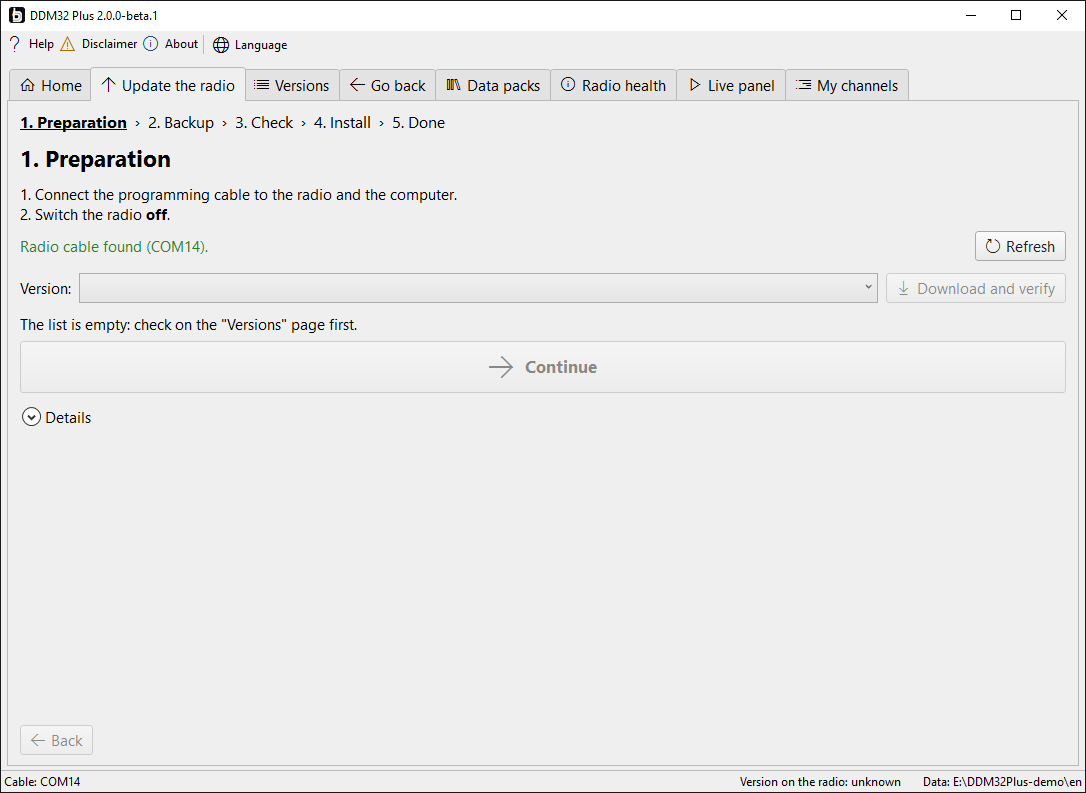
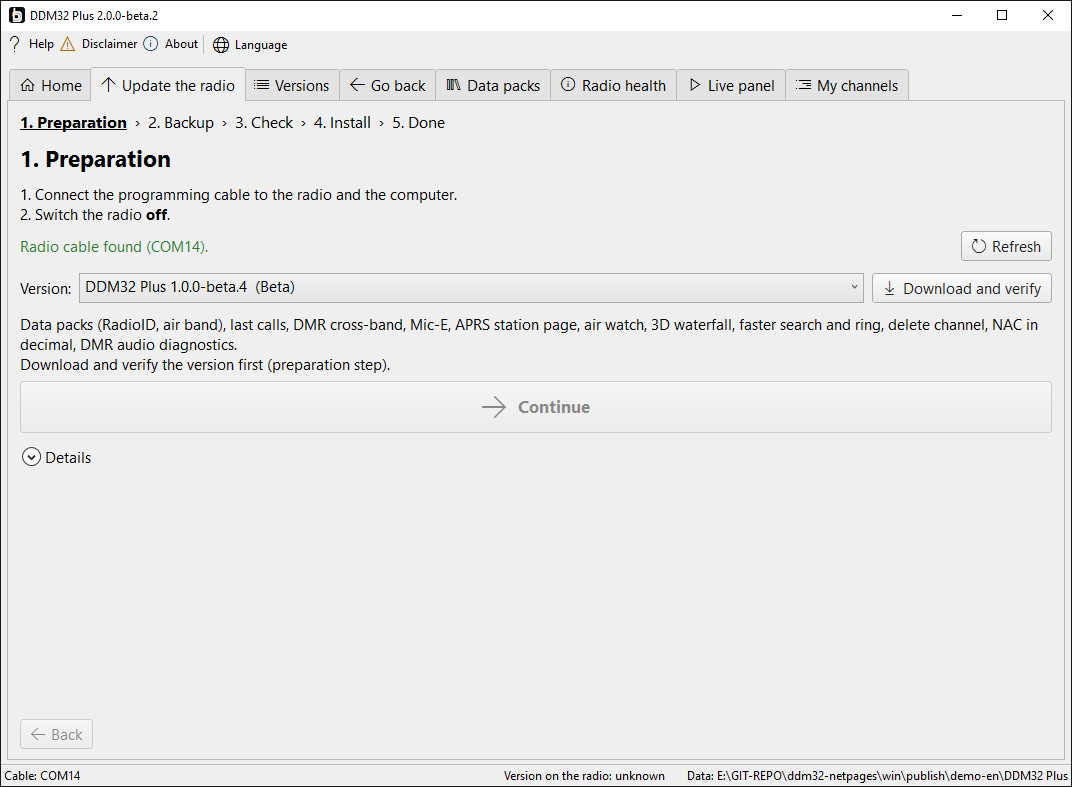
Windows program 2.0.0-beta.2: docs and screenshots of the release build
README (health, live panel, channels; the debug-link guard; one radio step at a
time), kullanim.md (sections 6-8), porting-plan.md (what the Rust port follows).
Every screenshot retaken from the release build on a made-up data folder; new
live and channels shots.

diff --git a/win/README.md b/win/README.md
@@ -3,8 +3,8 @@
 The Python-free Windows programmer for DDM32 Plus, replacing the PyQt5 program in `pc/` step by step. Same pages,
 same wizard (Hazırlık, Yedek, Kontrol, Yükle, Bitti), Turkish and English.
 
-**Version 2.0.0-beta.1: the programmer for installs (owner's decision 2026-11-21).** It replaces the Python program
-in `pc/` and is published with the firmware from v1.0.0-beta.4: download `DDM32Plus-Setup-2.0.0-beta.1.exe` from the
+**Version 2.0.0-beta.2: the programmer for installs (owner's decision 2026-11-21), every page done.** It replaces the Python program
+in `pc/` and is published with the firmware from v1.0.0-beta.4: download `DDM32Plus-Setup-2.0.0-beta.2.exe` from the
 release, run it, done (see [Install](#install) and the Turkish user guide [docs/kullanim.md](docs/kullanim.md)).
 
 The backup, install, quick update, install without backup, first install from stock and restore tools of
@@ -13,8 +13,10 @@ The backup, install, quick update, install without backup, first install from st
 owner's radio and a real backup byte-identical to the Python tool's. **Radio access is on in the release build:** each
 radio step starts only from its own button, after its own confirmation; every guard of the Python tools stays (a
 verified two-pass backup before a write, the plan of changed sectors, only application sectors, boot area, codec
-slot and data chip never written by an install, full readback, no retry of a failed write). New in this version:
-**data packs** (RadioID and air band, built on the user's PC; see [Data packs](#data-packs)).
+slot and data chip never written by an install, full readback, no retry of a failed write). Data packs came in
+2.0.0-beta.1 (RadioID and air band, built on the user's PC; see [Data packs](#data-packs)). New in 2.0.0-beta.2: the
+last three pages, **Telsizin durumu** (radio health), **Canlı panel** (live panel) and **Kanallarım** (my channels);
+no page says "coming in a later version" any more (see [Health, live panel, channels](#health-live-panel-channels)).
 
 | Language dialog | Main window (Türkçe) | Main window (English) |
 |---|---|---|
@@ -29,17 +31,20 @@ slot and data chip never written by an install, full readback, no retry of a fai
 | 5 Bitti / Done | ![](docs/screenshots/wizard-5-done-tr.png) | ![](docs/screenshots/wizard-5-done-en.png) |
 | Geri dön / Go back | ![](docs/screenshots/restore-tr.png) | ![](docs/screenshots/restore-en.png) |
 | Telsizin durumu / Radio health | ![](docs/screenshots/health-tr.png) | ![](docs/screenshots/health-en.png) |
+| Canlı panel / Live panel | ![](docs/screenshots/live-tr.png) | ![](docs/screenshots/live-en.png) |
+| Kanallarım / My channels | ![](docs/screenshots/channels-tr.png) | ![](docs/screenshots/channels-en.png) |
 | Veri paketleri / Data packs | ![](docs/screenshots/datapacks-tr.png) | ![](docs/screenshots/datapacks-en.png) |
 
-More: [Sürümler](docs/screenshots/versions-tr.png), [Versions](docs/screenshots/versions-en.png). The main window,
-steps 1-2 and the data pack page are the release build 2.0.0-beta.1 (no developer note; the data pack page after
-"Paketi oluştur" on a made-up list); steps 3-5, "Geri dön" and health are from 2.0.0-alpha.1 (same pages, then with
-the "radio access is off" note), the check step showing a synthetic backup chosen as "Mevcut yedeği seç..." does.
+More: [Sürümler](docs/screenshots/versions-tr.png), [Versions](docs/screenshots/versions-en.png). Every
+screenshot is the release build 2.0.0-beta.2 on a made-up data folder (a synthetic verified backup with invented
+channels, a made-up RadioID list): the check step with that backup chosen, the data pack page after "Paketi
+oluştur", health and live panel with `--show health:demo` / `live:demo` (example readings, no radio), channels
+from the synthetic backup. The version list is the real signed list from GitHub.
 
 ## Install
 
-1. Download `DDM32Plus-Setup-2.0.0-beta.1.exe` from the GitHub release (the release's signed manifest also lists the
-   program as `DDM32Plus-win-2.0.0-beta.1.zip`, the file the program's own update uses).
+1. Download `DDM32Plus-Setup-2.0.0-beta.2.exe` from the GitHub release (the release's signed manifest also lists the
+   program as `DDM32Plus-win-2.0.0-beta.2.zip`, the file the program's own update uses).
 2. Run it. It installs **for your Windows user only**, without an administrator prompt, to
    `%LOCALAPPDATA%\Programs\DDM32 Plus`, with a Start menu entry and (if ticked) a desktop shortcut. Nothing else
    is needed: the .NET runtime is inside the program.
@@ -152,13 +157,55 @@ the one data chip region the firmware may write, **0xE70000-0xEFFFFF**, two slot
   (`DDM32Plus-win 1`, datapack.py writes `datapack.py 1`); with the same tag the bytes are equal.
 - Never commit real RadioID or AIP data; the fixtures are made up.
 
+## Health, live panel, channels
+
+Three pages, ported from `pc/ddm32_app` (health_tab, live_tab, codeplug_tab) in 2.0.0-beta.2; details for the Rust
+port in [docs/porting-plan.md](docs/porting-plan.md) "Health, live panel and channels".
+
+- **Telsizin durumu / Radio health:** the CH340 check (Windows' device list, no port), then "Durumu oku" (one click,
+  or every 30 s when ticked) reads the radio's health over the firmware's **debug link**: GET_VIEW tasks, crash and
+  reset, exactly what `pc/radiotools/plus_txdiag.py --health` sends (`DebugReaders.Health`). The radio stays switched
+  on and runs DDM32 Plus. A traffic light (red: crash record; amber: heap low-water under 1 KB or a stack under
+  200 B; green), plain lines, the task stacks and the raw output under Details (also appended to
+  `yedekler\health-YYYYMMDD.log`). A card shows the newest verified backup and the firmware it holds (files only).
+- **Canlı panel / Live panel:** "Bağlan" opens the port and `DebugReaders.Live` (port of `plus_live.py`) reads every
+  1-5 s until "Durdur": GET_VIEW core and tasks, the native modem status (0x21/0) and the P25 zone scan counters
+  (0x21/12), crash and reset once. Signal (S-meter, the last 90 readings), state, mode, channel, frequency, P25
+  receiver, health, scan counters. Three polls without any answer end the run. No log file (it reads every few
+  seconds); the last lines are under Details.
+- **The guard** (`DebugLinkPort`): every frame is parsed before it is sent (SOF, length, CRC) and only the pairs of
+  command and one-byte payload in the reader's allowlist pass (health: `09/14 09/15 09/17`; live: those and `09/00
+  21/00 21/0C`). Anything else, a damaged frame or a baud change is refused before transmission, so no TX, key,
+  radio operation, flash, storage or register command can be sent. 115200 baud, DTR/RTS low, as the Python tool.
+- **One radio step at a time:** a run on any page (backup, install, restore, data packs, health, live) holds the
+  cable; another page's radio button waits (`ToolRunner.AnyBusy`). Closing the window stops the live panel.
+- **Kanallarım / My channels:** the codeplug of a backup's data flash image (`q128-pass1.bin`; the newest verified
+  backup loads by itself, "Başka bir yedek aç..." takes another), read only: channels 1-1024 in every mode (FM, DMR,
+  P25 in Classic r13's RFKV form and the two older forms, NXDN, dPMR, YSF), zones (68 slots, 80 channels each; 16 with
+  the old layout byte), contacts, RX group lists. The **P25 NAC is decimal first, as the firmware shows it now**:
+  `659 ($293)`, `Herhangi 3966 ($F7E)` / `Any 3966 ($F7E)` (the Python viewer still writes `$293 = 659`). A search
+  over every column (`659` and `$293` both find the channel), a zone filter (double-click a zone), a mode filter, all
+  columns or the simple five, and "Gösterileni CSV olarak kaydet..." (the rows shown, every column, UTF-8 with BOM,
+  as `codeplug.to_csv`). Nothing is written to a radio or a backup.
+- **Held to the Python code:** `Fixtures/make_live_fixtures.py` runs `plus_live.run` and `plus_txdiag --health`
+  with the pinned `rfoundry_debug.py` DebugLink over an in-memory fake radio (virtual clock) and records every frame,
+  answer and printed line (`live-results.json`: 6 live and 5 health runs: ok, unavailable counters, VFO and crash,
+  silent radio, noise and late answers, busy / error statuses, a view error, no answer); the C# readers must write the
+  same frames and print the same text, and the parsers must give `parsers.live_summary` / `health_summary` /
+  `health_tab.verdict` (`LiveTests.cs`). `Fixtures/make_codeplug_fixtures.py` decodes five synthetic images with
+  `pc/ddm32_app/codeplug.py` (every mode and P25 form, a two-page RFKV chain, 1024 channels in 68 zones of 80, the
+  old 16-channel layout, an empty one) into `codeplug-results.json.gz` (sparse images, every row and CSV);
+  `CodeplugTests.cs` holds the C# decoder to it, with the NAC in the new form.
+- **Screenshots and demos:** `--show health:demo` and `--show live:demo` show made-up readings (the page says
+  "Örnek veri: telsize bağlanılmadı"; no port is opened), `--show channels:FOLDER` a backup's codeplug.
+
 ## Radio access and build flags
 
 Three compile-time flags (`Directory.Build.props`); nothing at run time can change them:
 
 | Flag | Release build and setup | What it does |
 |---|---|---|
-| `RadioAccess` | **true** | compiles the serial port in (`RadioAccess.Factory`): the read-only backup, the data pack read |
+| `RadioAccess` | **true** | compiles the serial port in (`RadioAccess.Factory`): the read-only backup, the data pack read, health, live panel |
 | `RadioWrite` | **true** | the tools that write get a port (`RadioAccess.WriteFactory`): install, quick update, install without backup, restore, data pack write. Needs `RadioAccess` |
 | `Developer` | false | the developer-only features: the local release folder ("Yerel sürüm klasörü...", `--release-folder`), the backup folder choice, the title "DEVELOPER BUILD" |
 
@@ -168,7 +215,7 @@ release configuration and also pass with `-p:RadioAccess=false -p:RadioWrite=fal
 tool run without an explicit port factory gets none: `ToolContext.NoPort`).
 
 Every guard stays in either build: `ReadOnlyPort` (backup), `InstallPort` (install, restore), `CpsPackPort` (data
-packs) check every frame before it is sent. Every radio step needs its own click and confirmation; a failed write is
+packs), `DebugLinkPort` (health, live panel) check every frame before it is sent. Every radio step needs its own click and confirmation; a failed write is
 never repeated.
 
 ### A developer build
@@ -177,7 +224,7 @@ never repeated.
 dotnet publish src/DDM32Plus/DDM32Plus.csproj -p:PublishProfile=win-x64 -p:Developer=true -p:PublishDir=<new folder>\
 ```
 
-Title **"DDM32 Plus 2.0.0-beta.1 - DEVELOPER BUILD - radio WRITE on"**; its settings live next to the exe (or in
+Title **"DDM32 Plus 2.0.0-beta.2 - DEVELOPER BUILD - radio WRITE on"**; its settings live next to the exe (or in
 `DDM32_DATA`). Publish each variant into its own new folder; never delete inside a publish folder (the developer builds
 keep their settings next to the exe). The first real backup was compared with the Python tool's as follows (a local
 compare; the private folder is never copied into the repository):

diff --git a/win/docs/porting-plan.md b/win/docs/porting-plan.md
@@ -3,7 +3,7 @@
 This page says how each radio tool of the Python program (`pc/radiotools/`) is ported, which guards it must keep, and
 how the C# port is proven equal to the Python tool **before** it is ever pointed at a radio.
 
-## Status (2.0.0-beta.1, 2026-11-21)
+## Status (2.0.0-beta.2, 2026-11-21)
 
 | Tool | C# (`src/DDM32Plus.Core/Radio/`) | Verified against Python |
 |---|---|---|
@@ -14,7 +14,8 @@ how the C# port is proven equal to the Python tool **before** it is ever pointed
 | the guards' frame rules | `ReadOnlyPort`, `InstallPort` | layer 3: 89 frames + 5 step sequences, same verdicts and messages |
 | quick update and install without backup (C# only, owner's decision 2026-11-20) | `FastInstallTool` | the C# FakeRadio (`FakeRadio.cs`), itself checked to draw the Python tools' exact bytes on 11 recorded runs; 17 tests of the new paths and guard rules |
 | data packs (tools/datapack.py; the CPS write of docs/plus.md "User data packs") | `DataPacks/`, `CpsPack.cs` | the builder byte for byte on synthetic inputs (`make_datapack_fixtures.py`, `DataPackTests.cs`); the CPS write on a fake radio as `cps_openfw.c` behaves (`CpsPackTests.cs`); not yet run on the radio |
-| health / live panel (plus_live) | not yet | |
+| plus_txdiag --health, plus_live (the debug link of the pinned `rfoundry_debug.py`, `DebugLinkPort`) | `DebugLink.cs` (`DebugReaders`), `LiveData.cs` | 11 recorded runs over the pinned DebugLink (`make_live_fixtures.py`): same frames, same printed text, same parsed summaries; guard refusals; stop by cancel |
+| the codeplug viewer (pc/ddm32_app/codeplug.py) | `Codeplug/Codeplug.cs` | 5 synthetic images (`make_codeplug_fixtures.py`): every row, zone, contact, list and CSV equal; the NAC in the firmware's decimal-first form |
 
 Layer 2 means: `tests/DDM32Plus.Core.Tests/Fixtures/make_radio_fixtures.py` runs the Python tool against the pinned
 monitor's FakeRadio under a virtual clock and records every port event; the C# tool replays it and must write the same
@@ -25,6 +26,35 @@ equal. The recording is made on Windows (Python's text files have CRLF there).
 The serial port is behind `RadioAccess` (`Ports.cs`). Since 2.0.0-beta.1 (owner's decision 2026-11-21: installs
 are done with this program) the release build has radio access and writes on; `-p:RadioAccess=false` builds a program
 that opens no port. The developer build (`-p:Developer=true`) made the first real backup and two real installs.
+
+## Health, live panel and channels (2.0.0-beta.2; for the Rust port)
+
+What the C# program does, so another port can do the same and be held to the same fixtures:
+
+- **Debug link** (`DebugLink.cs`, from the pinned `tools/rfoundry_debug.py`): frame `A5 5A cmd seq len16 payload
+  crc16` (CRC-16/CCITT-FALSE over cmd..payload, little endian); the answer is `cmd|0x80` with the same seq and the
+  status as its first byte, or `0xFF` (error, status first). Reading: skip to `A5 5A`, drop the SOF on a length over
+  1024 or a bad CRC, skip answers with another seq; 1 s per request, no retry of a busy answer (`busy_wait=0`). Error
+  texts exactly as Python (`no answer to command 0x09 within 1 s on COM9 (firmware without the debug link? another
+  program has the port?)`, `command 0x21: unavailable`).
+- **Health** = `plus_txdiag --health`: views 20, 21, 23 (tasks, crash, reset), each printed as `--- view NAME (N)
+  status 0`, `uptime_ms=U32`, then the view's text (`ascii`, `replace`, right-stripped). An error ends the run.
+- **Live** = `plus_live.run`: crash and reset once, then per poll `=== poll N`, views core (0) and tasks (20), the
+  native status 0x21/0 (38 u32 fields, plus `state_name` / `reason_name`), the scan counters 0x21/12 (13 u32),
+  `=== end N`; a query error is printed (`status -1` for no answer, `error=DebugLinkError: ...`) and the poll goes on;
+  three polls with no answer at all end the run (exit 3). The program's version also ends on the page's stop.
+- **Guard**: a whitelist of (command, one-byte payload) checked on the bytes about to be written; health
+  `{09/14, 09/15, 09/17}`, live adds `{09/00, 21/00, 21/0C}`. Fixed 115200 baud.
+- **Parsers** (`LiveData.cs`): `parse_health`, `health_summary` (tasks sorted by free bytes), the verdict
+  (red / amber at heap_min_free < 1024 or a stack < 200 / green), `parse_blocks`, `live_summary`, the S-meter (S9 =
+  -93 dBm, 6 dB a unit, banker's rounding), MHz with a decimal comma in Turkish, h:mm:ss.
+- **Codeplug** (`Codeplug.cs`): the layout in `pc/ddm32_app/codeplug.py`'s module text; the row texts come from a
+  word table per language (`CodeplugText.Tr` is the Python viewer's Turkish, `.En` new), decoded again on a language
+  change. The only intended difference to Python: `nac_text` is `"{dec} (${hex:03X})"` and Any is `"{Any} 3966
+  ($F7E)"` (the firmware's CONFIG_NAC_DEC). The CSV is `csv.writer` (minimal quoting, `\n`), saved UTF-8 with a BOM.
+- **Fixtures** to reuse as they are: `Fixtures/live-results.json` (frames, answers, printed text, summaries) and
+  `Fixtures/codeplug-results.json.gz` (sparse 16 MiB images: `[address, base64]` runs over 0xFF, and the expected
+  rows and CSV). Make them again with the two scripts when the Python side changes.
 
 ## Rules that do not change
 
@@ -50,8 +80,8 @@ that opens no port. The developer build (`-p:Developer=true`) made the first rea
 3. **install** (`install_plus.py` with `install_firstboot.InstallPort`, `prepare_unit_image.py`): plan, then writes.
 4. **restore** (`install_plus.py --restore`, `install_firstboot.py --restore-stock --use-saved-backup`).
 
-The health and live panels (`plus_live.py`) come after these, with the same transport and their own read-only
-allowlist.
+The health and live panels (`plus_live.py`) came after these (2.0.0-beta.2), with their own transport (the
+firmware's debug link) and their own read-only allowlist.
 
 ## How a port is verified
 

diff --git a/win/docs/kullanim.md b/win/docs/kullanim.md
@@ -1,11 +1,11 @@
 # DDM32 Plus programı: kullanım kılavuzu
 
 Baofeng DM-32UV telsize DDM32 Plus yazılımını kurmak, güncellemek, eski hâline döndürmek ve veri paketlerini yüklemek
-için Windows programı (sürüm 2.0.0-beta.1). Python veya başka bir şey kurmanız gerekmez.
+için Windows programı (sürüm 2.0.0-beta.2). Python veya başka bir şey kurmanız gerekmez.
 
 ## 1. Kurulum
 
-1. GitHub sürüm sayfasından `DDM32Plus-Setup-2.0.0-beta.1.exe` dosyasını indirin.
+1. GitHub sürüm sayfasından `DDM32Plus-Setup-2.0.0-beta.2.exe` dosyasını indirin.
 2. Çalıştırın. Program yalnızca sizin Windows kullanıcınız için kurulur, yönetici izni istemez
    (`%LOCALAPPDATA%\Programs\DDM32 Plus`). Başlat menüsüne ve isterseniz masaüstüne kısayol koyar.
 3. **"Windows bilgisayarınızı korudu" uyarısı (SmartScreen):** program henüz kod imzalı değil. **Ek bilgi**'ye,
@@ -63,11 +63,47 @@ yenisi gerekir. Paketler veri yongasının yalnızca ayrılmış bölgesine (0xE
 İndirdiğiniz listeler ve oluşan paketler programın `paketler` klasöründe durur. Bu veriler sizin kullanımınız
 içindir; başkasına dağıtmayın.
 
-## 6. Programın klasörü
+## 6. Telsizin durumu
+
+**Telsizin durumu** sekmesi önce kabloyu ve CH340 sürücüsünü denetler (port açmaz). Telsiz **açık**, DDM32 Plus
+çalışırken ve kablo takılıyken **Durumu oku**'ya basın: telsizin belleği, görevlerin yığınları, hata (çökme) kaydı ve
+son açılış nedeni okunur. Yeşil ışık "Her şey yolunda", sarı "Dikkat: bellek az", kırmızı "Hata kaydı var" demektir;
+kırmızıda "Ayrıntılar"daki çıktıyı bize gönderin. **her 30 sn oku** kutusu açıkken sayfa kendisi okur. Sayfa ayrıca
+bu programın en yeni doğrulanmış yedeğini ve içindeki yazılımı gösterir (yalnızca dosyadan). Bu sayfa telsize hiçbir
+şey yazmaz; yalnızca okuma komutları gönderilebilir, diğer her komut gönderilmeden reddedilir.
+
+## 7. Canlı panel
+
+**Canlı panel** telsizi birkaç saniyede bir okur: sinyal gücü (S-metre ve son okumaların çizgisi), durum, mod, kanal
+ve bölge, frekans, P25 alıcısı, bellek, son açılış, hata kaydı ve P25 bölge tarama sayaçları. Telsiz açık ve kablo
+takılıyken **Bağlan**'a basın; **Yenileme** ile 1-5 saniye seçilir (önce Durdur). **Durdur** okumayı bitirir ve portu
+kapatır; program kapanırken de durur. Telsiz üç okumada hiç yanıt vermezse panel kendisi durur. Panel yalnızca okur:
+ayar değiştirmez, yayın yapmaz. Panel açıkken başka bir sayfanın telsiz düğmesi beklemede kalır (kablo aynı anda tek
+işe kullanılır).
+
+## 8. Kanallarım
+
+**Kanallarım** telsizin kanallarını yedekten gösterir; telsize bağlanmaz, hiçbir şey yazmaz. En yeni doğrulanmış
+yedek kendiliğinden açılır; **Başka bir yedek aç...** ile başka bir yedek klasörü seçilir.
+
+- **Kanallar** sekmesi: numara, ad, frekans, mod (FM, DMR, P25, NXDN, dPMR, YSF) ve kısa ayar (ton, CC/TS, NAC/TG,
+  RAN ...). P25 NAC telsizdeki gibi önce ondalık yazılır: `659 ($293)`; herhangi NAC `Herhangi 3966 ($F7E)`.
+  **Tüm sütunlar** kaydın bütün alanlarını gösterir. Sütun başlığına tıklayınca sıralanır.
+- **Bölgeler** (en çok 68 bölge, bölge başına 80 kanal), **Kişiler**, **RX grup listeleri** sekmeleri. Bir bölgeye
+  çift tıklayınca Kanallar sekmesi yalnızca o bölgenin kanallarını, bölgedeki sırayla gösterir (ya da **Bölge**
+  listesinden seçin).
+- **Ara:** yazdığınız metni her sütunda arar (ad, frekans, `659` ya da `$293` ...). **Mod** listesi kanalları moda
+  göre süzer.
+- **Gösterileni CSV olarak kaydet...** o sekmede gösterilen satırları bütün sütunlarıyla bir CSV dosyasına yazar
+  (Excel açar).
+
+Kanalları değiştirmek için telsizin kendi menülerini ya da CPS'i kullanın.
+
+## 9. Programın klasörü
 
 | Klasör | Ne var |
 |---|---|
-| `yedekler` | telsizin yedekleri ve kayıtlar: kalibrasyon ve kanallarınız içindedir, **silmeyin, paylaşmayın** |
+| `yedekler` | telsizin yedekleri ve kayıtlar (durum okumaları `health-*.log`): kalibrasyon ve kanallarınız içindedir, **silmeyin, paylaşmayın** |
 | `surumler` | indirilen yazılım sürümleri |
 | `paketler` | veri paketi dosyaları |
 | `guncelleme` | programın kendi güncellemesi |
@@ -75,11 +111,14 @@ içindir; başkasına dağıtmayın.
 Python programının eski yedekleri (`%LOCALAPPDATA%\DDM32Plus`, `DDM25Plus`) bulunur ve gösterilir; taşınmaz,
 silinmez.
 
-## 7. Sorun olursa
+## 10. Sorun olursa
 
 - **Kablo bulunamadı:** kabloyu başka bir USB yuvasına takın, "Telsizin durumu" sayfasındaki yönergeyi izleyin.
 - **"Telsizi şimdi kapatıp açın" çıktı ama bir şey olmadı:** telsizi kapatıp yeniden açın; süre dolarsa adımı
   yeniden başlatın. Bu yalnızca okumadır, telsize bir şey yazılmamıştır.
 - **Yazma yarıda kaldı:** program tekrar denemez. **Geri dön** sekmesinden son yedeğinizi geri yükleyin.
+- **Durum okunamadı / Canlı panel "Bağlantı kesildi":** telsiz açık mı, DDM32 Plus çalışıyor mu, kablo takılı mı?
+  Başka bir sayfada telsiz işlemi sürüyorsa bitmesini bekleyin.
+- **Kanallarım "Yedek bulunamadı":** önce "Telsizi güncelle" sayfasında bir yedek alın ya da bir yedek klasörü seçin.
 - Her işlemin ayrıntılı kaydı sayfanın "Ayrıntılar" bölümünde ve `yedekler` / `paketler` klasöründeki `.log`
   dosyalarındadır.
